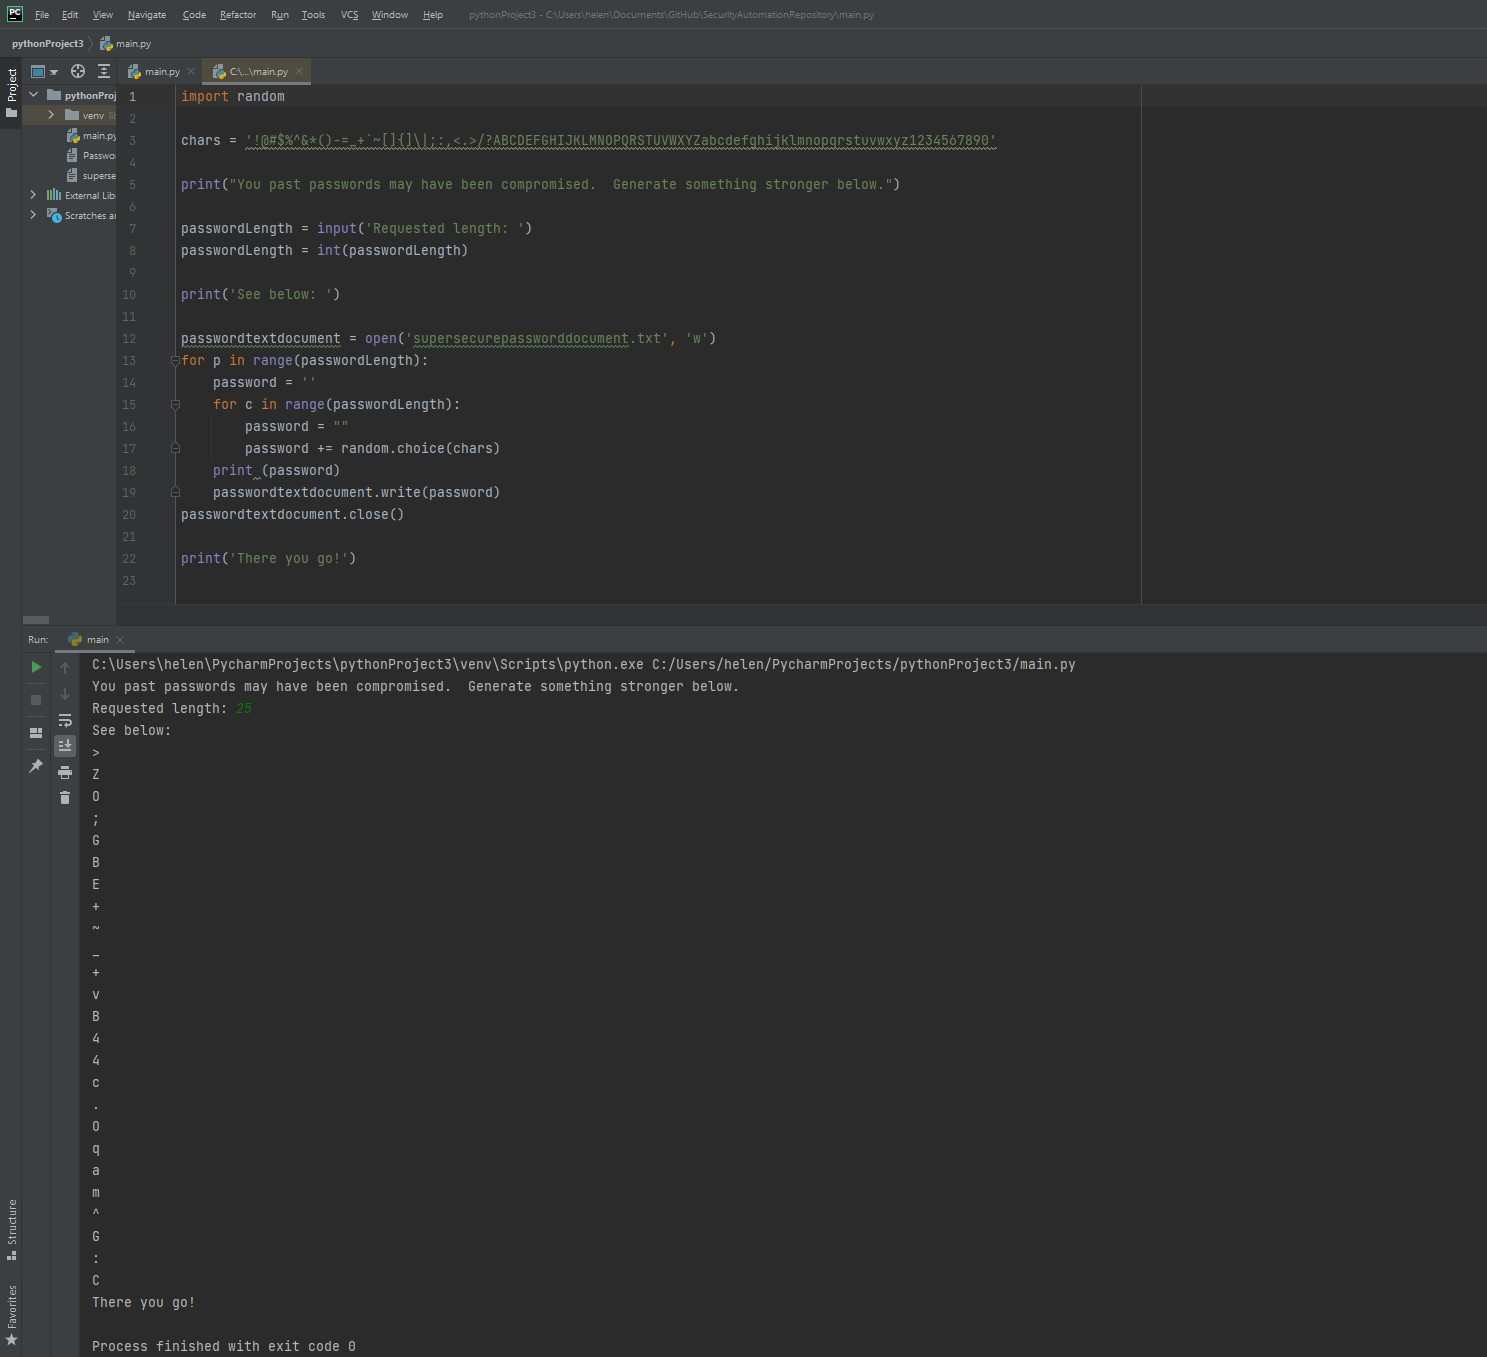
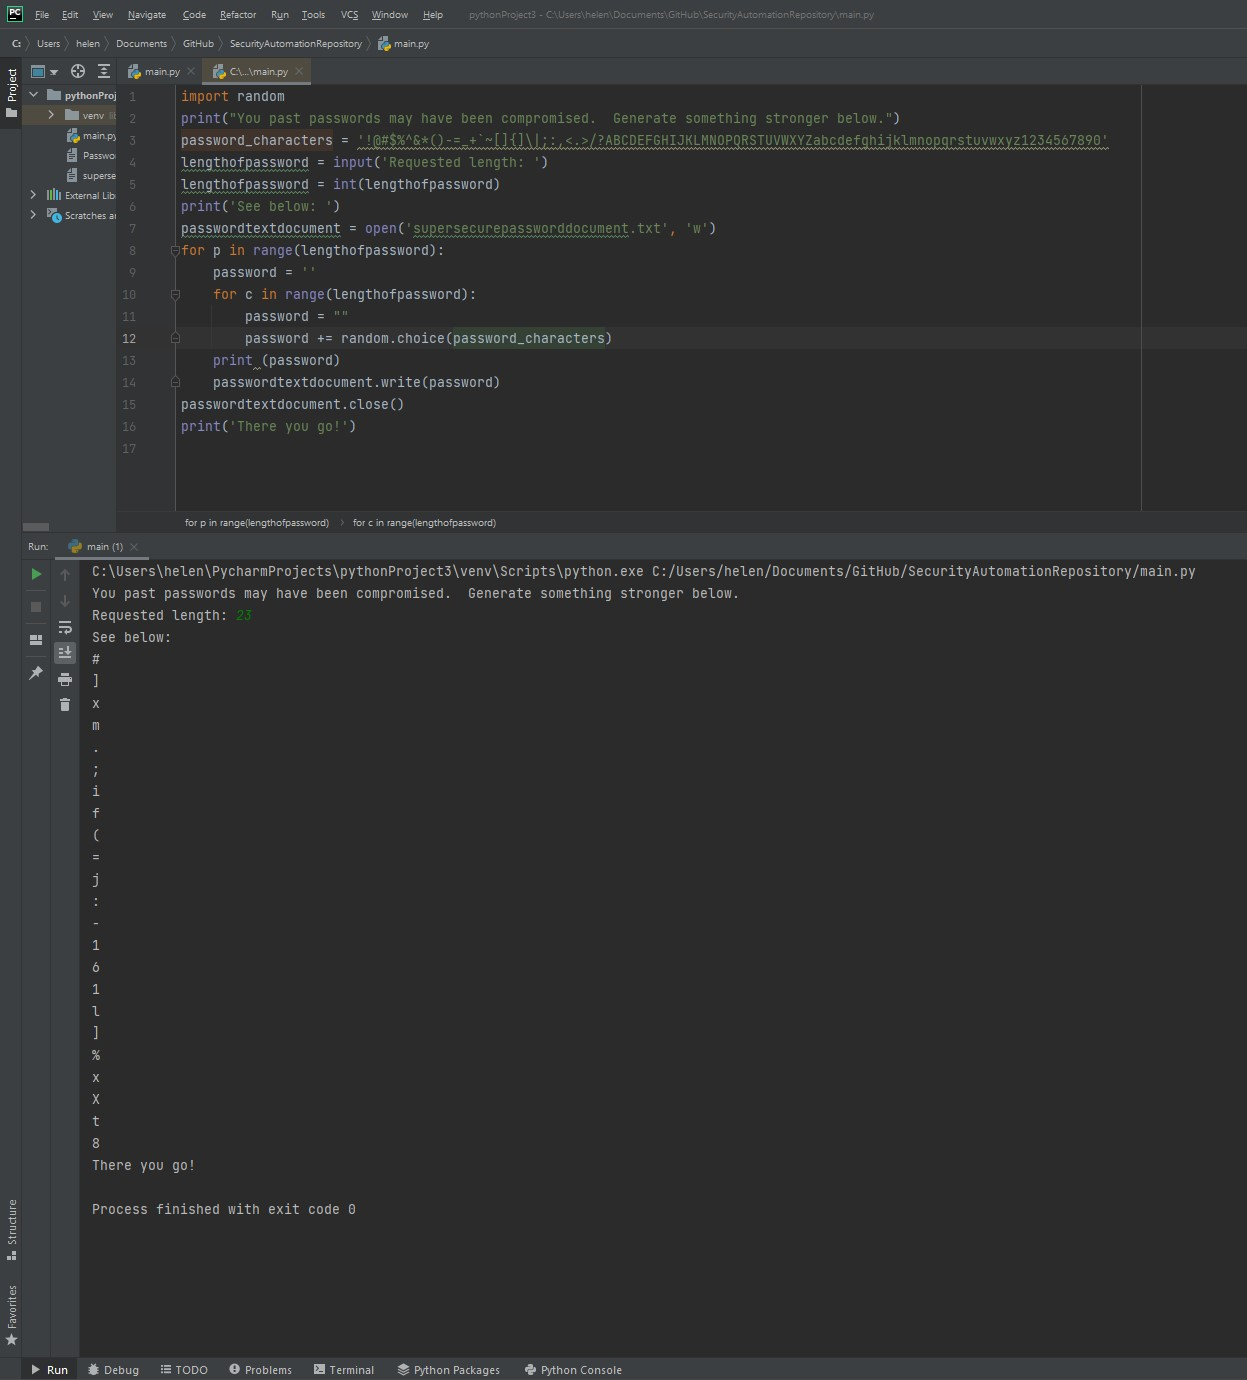
Update
Version 2.0

diff --git a/main.py b/main.py
@@ -1,22 +1,16 @@
 import random
-
-password_characters = '!@#$%^&*()-=_+`~[]{]\|;:,<.>/?ABCDEFGHIJKLMNOPQRSTUVWXYZabcdefghijklmnopqrstuvwxyz1234567890'
-
 print("You past passwords may have been compromised.  Generate something stronger below.")
-
-passwordLength = input('Requested length: ')
-passwordLength = int(passwordLength)
-
+password_characters = '!@#$%^&*()-=_+`~[]{]\|;:,<.>/?ABCDEFGHIJKLMNOPQRSTUVWXYZabcdefghijklmnopqrstuvwxyz1234567890'
+lengthofpassword = input('Requested length: ')
+lengthofpassword = int(lengthofpassword)
 print('See below: ')
-
 passwordtextdocument = open('supersecurepassworddocument.txt', 'w')
-for p in range(passwordLength):
+for p in range(lengthofpassword):
     password = ''
-    for c in range(passwordLength):
+    for c in range(lengthofpassword):
         password = ""
         password += random.choice(password_characters)
     print (password)
     passwordtextdocument.write(password)
 passwordtextdocument.close()
-
 print('There you go!')
